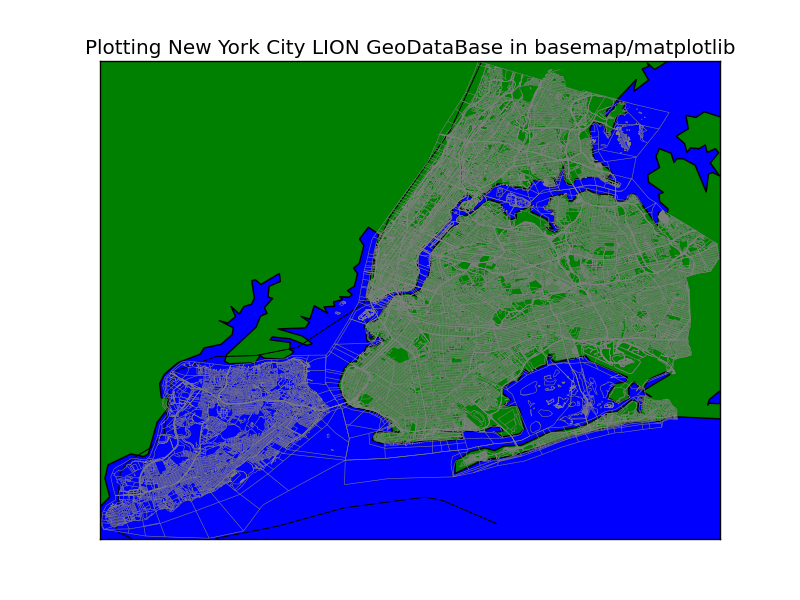
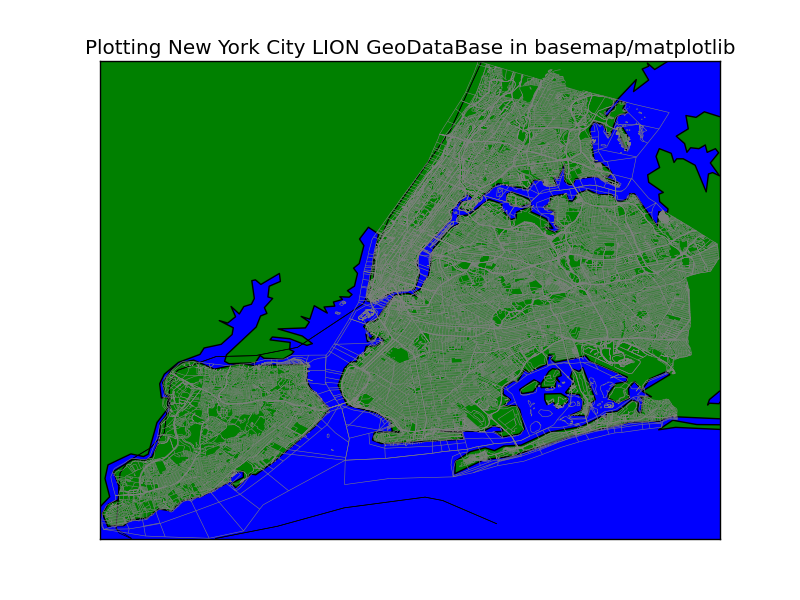
the area_thresh= is the _coastline_ or lake with an area greater than it, so it is not only for lakes, but for coastlines -and therefore, also for islands

diff --git a/plot_NYC_LION_Geodb.py b/plot_NYC_LION_Geodb.py
@@ -24,7 +24,7 @@ m = Basemap(llcrnrlon=LOW_LEFT_CORNR_LONGITUDE,
             urcrnrlon=UP_RIGHT_CORNER_LONGITUDE,
             urcrnrlat=UP_RIGHT_CORNER_LATITUDE,
             ellps='WGS84',
-            resolution='h', area_thresh=1000)
+            resolution='h', area_thresh=1)
 
 m.drawcoastlines()
 m.fillcontinents(color='green')
